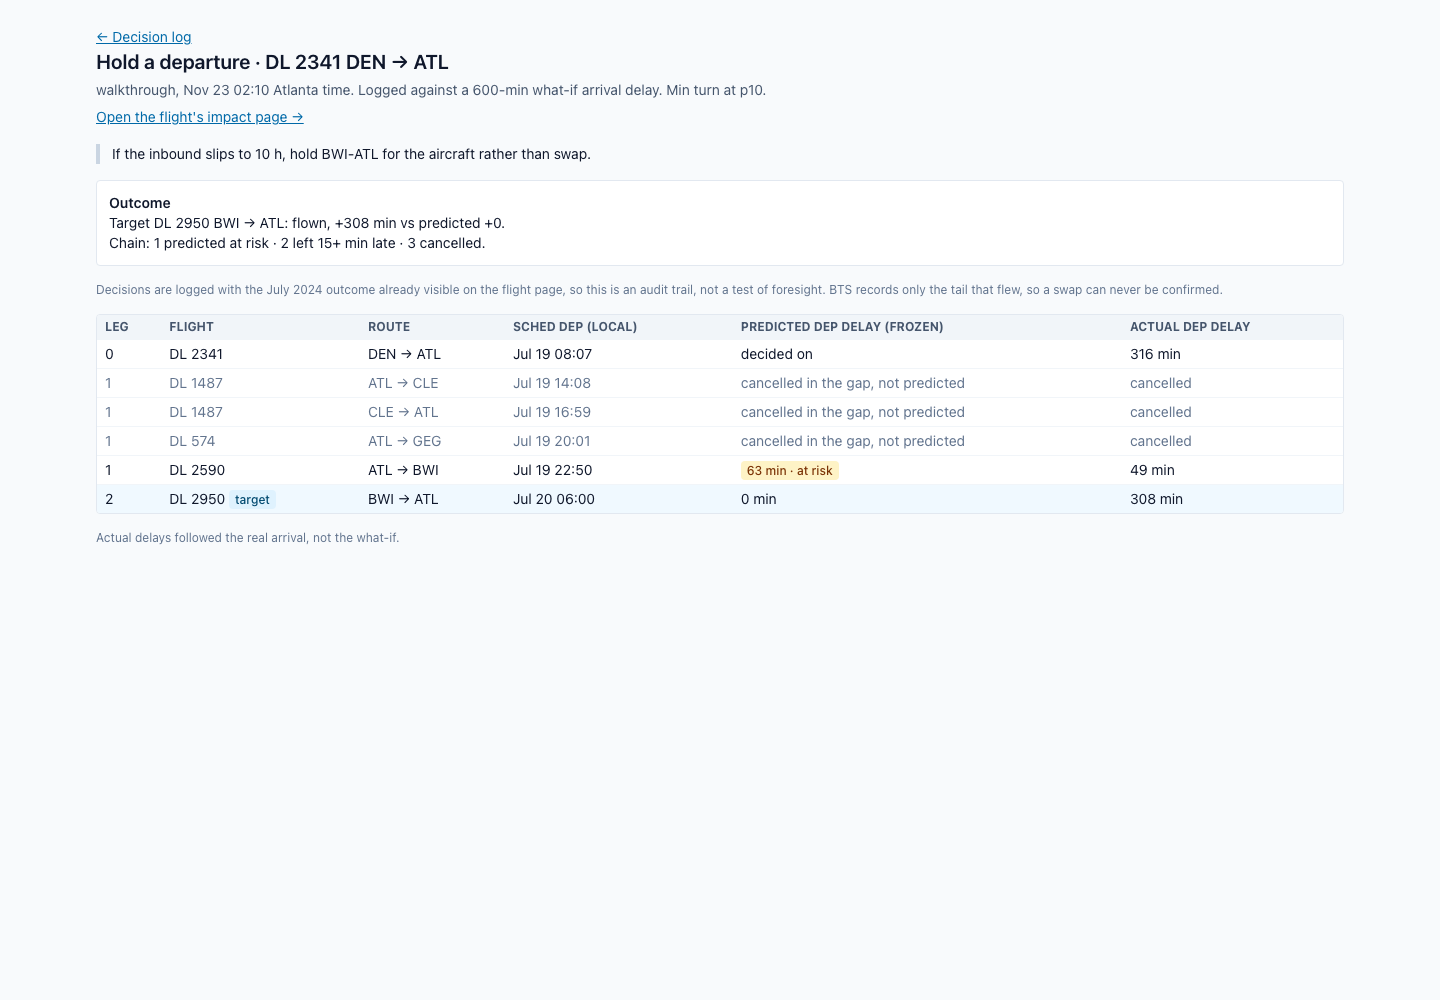
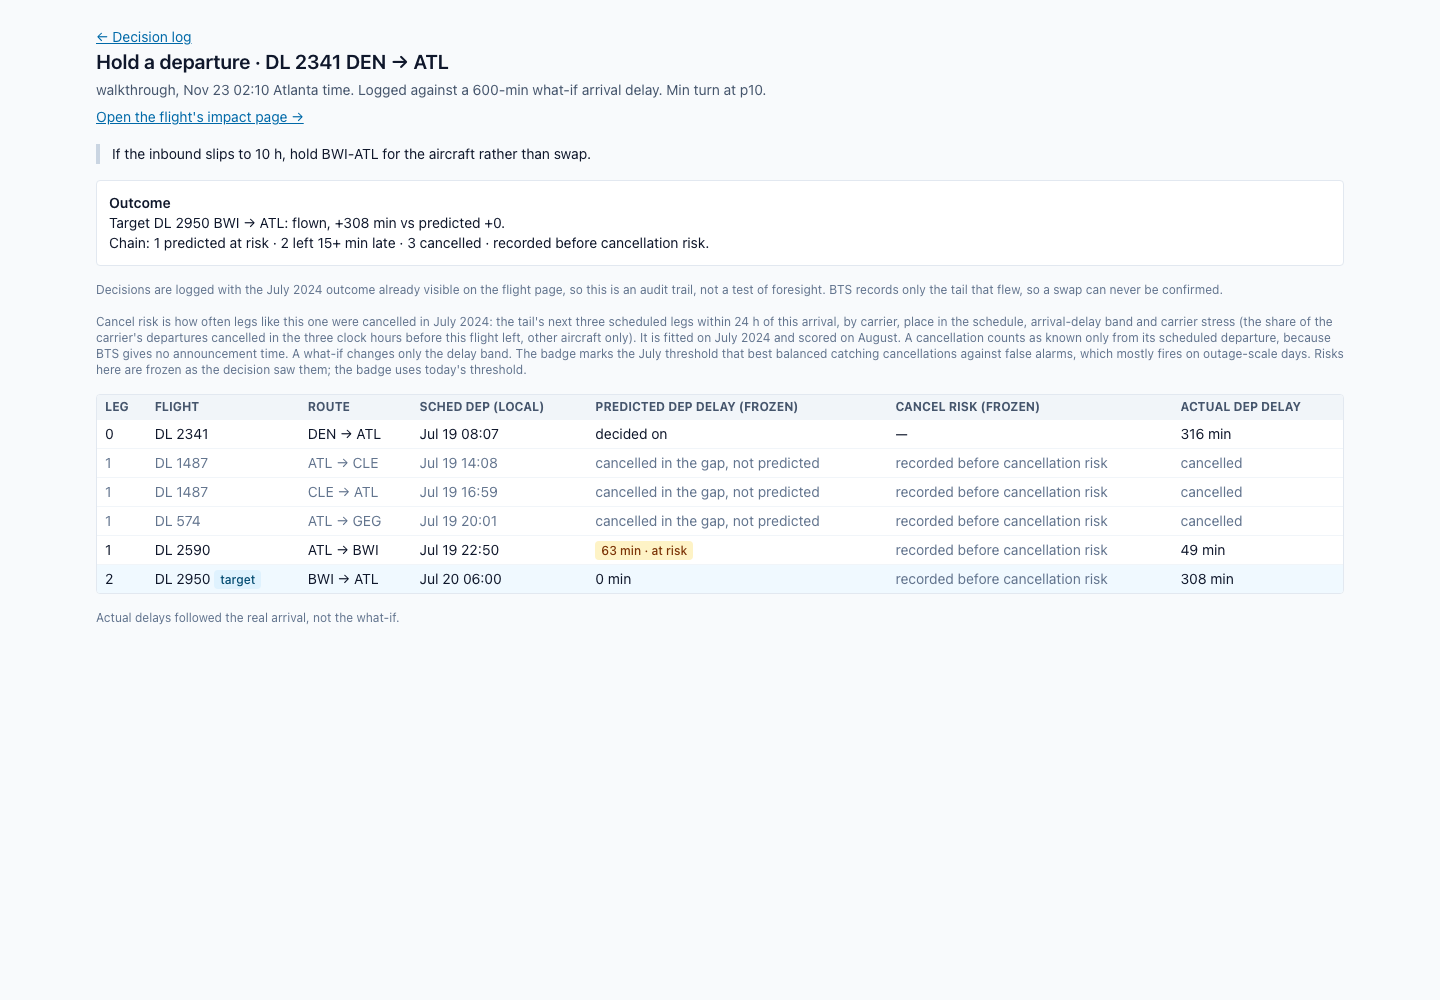
docs: phase 6 walkthrough, screenshots, decisions and status

Changed region(s): [[0.0625, 0.31, 0.9375, 0.589], [0.3438, 0.217, 0.4688, 0.248]]

diff --git a/CLAUDE.md b/CLAUDE.md
@@ -4,11 +4,11 @@ Airline operations control tool for one US hub, starting with ATL. It is a portf
 
 ## Status
 
-- **Current phase:** 6 (cancellation risk). Steps 1 to 3 are merged to `main`. Step 3: migration 026 adds `cancel_risk` and `cancel_risk_basis` to `propagate`, freezes them in `app.decision_leg`, and adds `flagged_cancel_risk` to `decision_review` (threshold `app_read.cancel_risk_threshold()`, 0.183). Measured notes are in `docs/phase-6-plan.md`.
-- **Next action:** write the step 4 task plan (FlightImpact's cancel-risk column, the decision pages, screenshots) with `superpowers:writing-plans`, under `docs/plans/`, then stop for the user's review. Step 4 must decide how to show ranked legs that `propagate` returns no row for (about half the cancelled ones at ranks 2-3). Pushing to GitHub is still open.
-- **Built so far:** phases 1 to 5 in full (see their plans in `docs/`): the pipelines, the `app_read` views read by the `flightops_app` role, and the ops console in `web/` (read-only except for logging decisions) (HubDay, TailDay, FlightImpact, Live, Decisions and Decision pages). The decision log in `app` holds three kept walkthrough decisions on N102DN by author `walkthrough`. The local `flightops` database holds the July and August 2024 ontology, and measured results are in `docs/data-sources.md` and the notes in `docs/phase-2-plan.md`. OpenSky ATL arrivals and departures are collected by hand with `collect`, which fetches the last 7 settled days it doesn't hold. Use `--from` and `--to` for older gaps.
+- **Current phase:** 6 (cancellation risk), done on branch `phase-6-app-risk`, not merged. Steps 1-3 are merged to `main`. Step 4 (migration 027) adds `scheduled` rows to `propagate` for scored legs outside the chain, `app.decision.cancel_risk_recorded`, the Cancel risk column on FlightImpact, frozen risk and flagged totals on the decision pages, and new screenshots. Measured notes and the walkthrough are in `docs/phase-6-plan.md`, and the backtest is in `docs/phase-6-report.md`.
+- **Next action:** merge step 4, then read `docs/roadmap.md` and ask the user whether to start phase 7 or go to phase 8. Pushing to GitHub is still open.
+- **Built so far:** phases 1 to 6 in full (see their plans in `docs/`): the pipelines, the `app_read` views read by the `flightops_app` role, and the ops console in `web/` (read-only except for logging decisions) (HubDay, TailDay, FlightImpact, Live, Decisions and Decision pages). The decision log in `app` holds four kept walkthrough decisions on N102DN by author `walkthrough`: 48-50 from phase 5, logged before cancellation risk, and 163 from phase 6. The local `flightops` database holds the July and August 2024 ontology, and measured results are in `docs/data-sources.md` and the notes in `docs/phase-2-plan.md`. OpenSky ATL arrivals and departures are collected by hand with `collect`, which fetches the last 7 settled days it doesn't hold. Use `--from` and `--to` for older gaps.
 - **Commands:** from `pipelines/`, `uv run --env-file ../.env pytest`, and `uv run --env-file ../.env python -m flightops {migrate,ddl,fetch,load,build,report,all,collect,live}`. `live` polls every 60 s (`--every`) until Ctrl-C. From `web/`, `./vendor/bin/pest`, `npm test`, `npm run build`, and `composer run dev` or `php artisan serve` to run the app.
-- **Repo:** phase 1, OpenSky collection and the report addition are merged to `main` locally, not pushed, and so are all of phases 2, 3, 4 and 5. Phase 6 step 1 is merged to `main` locally, not pushed. Step 2 is merged to `main` locally, not pushed. Step 3 is merged to `main` locally, not pushed.
+- **Repo:** phase 1, OpenSky collection and the report addition are merged to `main` locally, not pushed, and so are all of phases 2, 3, 4 and 5. Phase 6 step 1 is merged to `main` locally, not pushed. Step 2 is merged to `main` locally, not pushed. Step 3 is merged to `main` locally, not pushed. Step 4 is on `phase-6-app-risk`.
 
 Keep this section current: update it at the end of every work session and whenever a step finishes, so a new session knows where things stand without being told.
 

diff --git a/docs/phase-6-plan.md b/docs/phase-6-plan.md
@@ -113,3 +113,6 @@ A new generated section in `report.py`, tables with their SQL under each as befo
 | `propagate` shows rank 1 but hides most later cancelled targets | Cancelled targets with no `propagate` row: `august` 2,184 of 5,036 (43.4%), `debby` 3,552 of 8,464 (42.0%), `july_normal` 4,550 of 9,925 (45.8%), `july_outage` 2,249 of 10,286 (21.9%). In `august` and `debby` by rank: 0.7% hidden at rank 1, 45.6% at rank 2, 72.6% at rank 3, mostly after on-time inbounds whose chain stops as absorbed at depth 1. A few targets come back twice, so totals run 1-2 above step 2's | Step 4 needs to list ranked legs that aren't in the chain, or FlightImpact hides about half the cancelled legs the rate table scores |
 | `propagate` stays fast with cancel risk | N102DN's DEN→ATL: 3.2 ms. 33,700 calls in 13.8 s | No index needed |
 | Walkthrough decisions survive migration 026 | Decisions 48-50 by `walkthrough`: 16 legs, all with NULL risk, `flagged_cancel_risk` 0 | Append-only holds |
+| Walkthrough: N102DN's DEN→ATL on FlightImpact | `/flights/371994`: ATL→CLE 49.5%, CLE→ATL 51.4%, ATL→GEG 46.7%, all badged, from Delta cells of 1,309, 1,276 and 1,197 samples. ATL→BWI reads `not scored`. `?delay=600` keeps all three rates (still `240+`) | The column answers the phase's question on the case it started from, where `propagate` predicted nothing |
+| Walkthrough: ATL→BWI's scheduled rows | `/flights/372283`: BWI→ATL badged at 20.8% and absorbs the 28-min delay. Two rows with no depth follow: IAH→ATL 23.8% and ATL→DTW 28.0%, both badged, both cancelled. Before migration 027 neither had a row | Showing scored legs outside the chain is needed, not cosmetic |
+| Walkthrough decision 163 | `cancel_leg` on DEN→ATL, target ATL→CLE, author `walkthrough`, kept: `airline did the same`, 3 flagged at cancellation risk, frozen rates on `/decisions/163`. Decisions 48-50 read `recorded before cancellation risk` | The log freezes and reviews cancellation risk end to end. Screenshots in `docs/screenshots/` |

diff --git a/DECISIONS.md b/DECISIONS.md
@@ -333,3 +333,15 @@ Tradeoffs made while building flight-ops, newest last. Each entry says what was 
 - **Gave up:** a threshold that follows the data on a rebuild.
 - **Why:** `decision_review` counts frozen risks against it, and a value that moved silently would change past reviews. The phase 6 report shows `app_threshold_pct` beside the fitted threshold.
 - **Revisit if:** a rebuild makes the two disagree.
+
+## 2026-11-23: Show scored legs outside the chain as `scheduled` rows in `propagate`
+- **Chose:** `propagate` also returns the selected flight's scored next legs that its chain never reached, as `kind = 'scheduled'` rows with no depth and no delay prediction, after the chain. FlightImpact shows them with a `—` depth, and `record_decision` freezes them.
+- **Gave up:** a propagation table that holds only the flown chain and the cancellations in its gaps, and the spec's plain column on the chain rows.
+- **Why:** the chain alone hides about half the cancelled legs at ranks 2-3 (45.6% and 72.6% in `august` and `debby`). On N102DN's ATL→BWI, the two flagged cancellations after the absorbed BWI→ATL had no row. As rows they are frozen with no change to `record_decision`, and can be a decision's target. A separate panel would need its own frozen table and would show each risk twice.
+- **Revisit if:** the extra rows confuse readers of the chain. Then move them to a panel with its own frozen table.
+
+## 2026-11-23: Mark decisions logged before cancellation risk with a column, not a NULL check
+- **Chose:** `app.decision.cancel_risk_recorded`, false for the three decisions that existed at migration 027 and true for every later one. The pages show `recorded before cancellation risk` for false.
+- **Gave up:** nothing visible.
+- **Why:** a later decision on a flight the backtest never scored also has all-NULL risk, so NULLs can't tell "before" from "not scored".
+- **Revisit if:** never.
